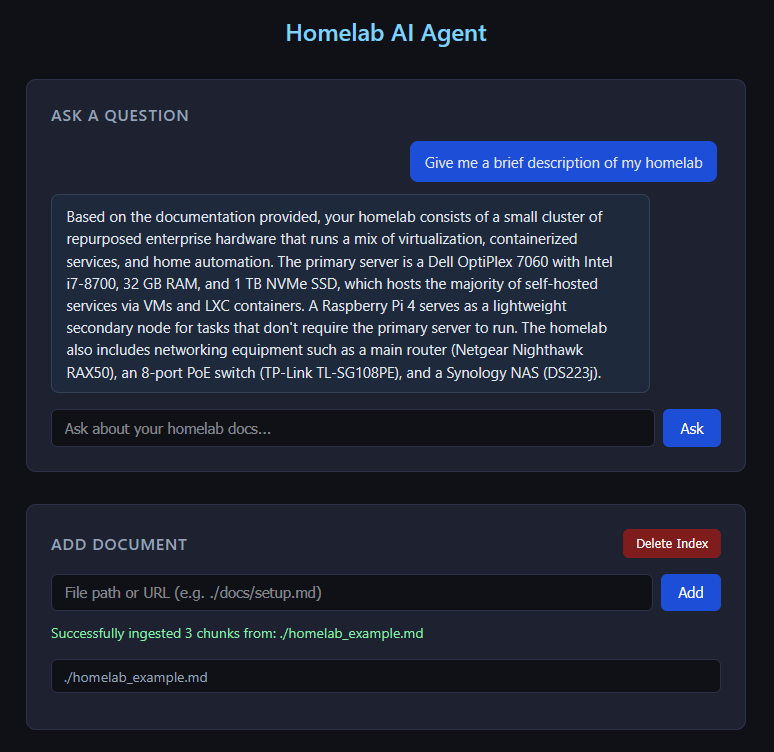
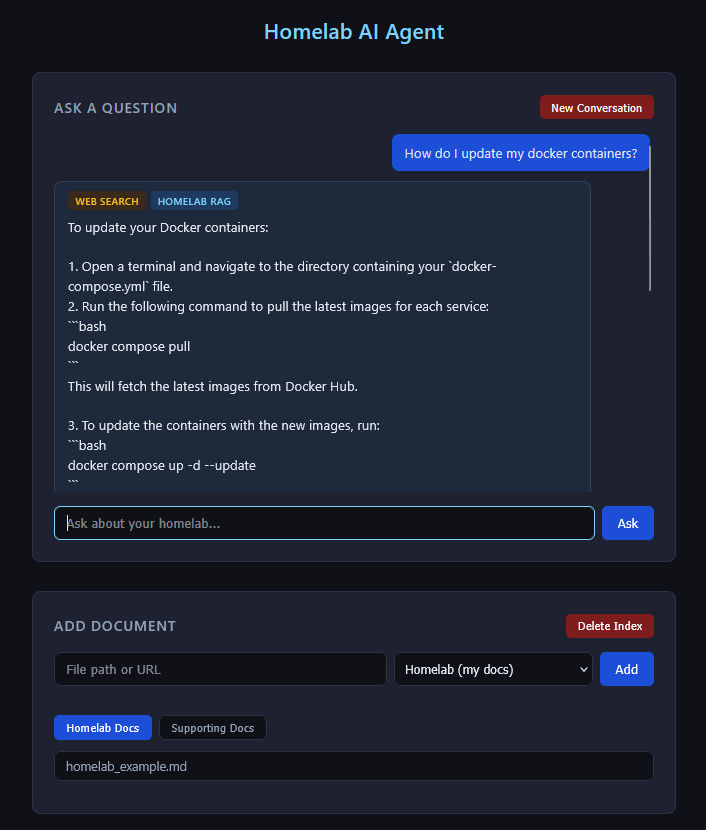
updated readme

diff --git a/web/templates/index.html b/web/templates/index.html
@@ -157,6 +157,42 @@
     .badge-web_search     { background: #3b2a1a; color: #fbbf24; }
     .badge-command        { background: #2a1a3b; color: #c4b5fd; }
 
+    /* Thinking indicator */
+    .message.thinking {
+      background: #1e293b;
+      border: 1px solid #334155;
+      align-self: flex-start;
+      display: inline-flex;
+      align-items: center;
+      gap: 0.5rem;
+      color: #64748b;
+      font-style: italic;
+      font-size: 0.875rem;
+      padding: 0.4rem 0.75rem;
+      line-height: 1;
+    }
+
+    .thinking-dots {
+      display: flex;
+      gap: 0.25rem;
+    }
+
+    .thinking-dots span {
+      width: 6px;
+      height: 6px;
+      background: #475569;
+      border-radius: 50%;
+      animation: bounce 1.2s infinite ease-in-out;
+    }
+
+    .thinking-dots span:nth-child(2) { animation-delay: 0.2s; }
+    .thinking-dots span:nth-child(3) { animation-delay: 0.4s; }
+
+    @keyframes bounce {
+      0%, 80%, 100% { transform: translateY(0); opacity: 0.4; }
+      40%           { transform: translateY(-5px); opacity: 1; }
+    }
+
     /* Command blocks */
     .command-block {
       background: #0a0c12;
@@ -381,6 +417,24 @@
       chatLog.scrollTop = chatLog.scrollHeight;
     }
 
+    function showThinking() {
+      const el = document.createElement("div");
+      el.className = "message thinking";
+      el.id = "thinking-indicator";
+      el.innerHTML = `
+        <div class="thinking-dots">
+          <span></span><span></span><span></span>
+        </div>
+        Thinking...`;
+      chatLog.appendChild(el);
+      chatLog.scrollTop = chatLog.scrollHeight;
+    }
+
+    function removeThinking() {
+      const el = document.getElementById("thinking-indicator");
+      if (el) el.remove();
+    }
+
     function appendMessage(text, type) {
       const el = document.createElement("div");
       el.className = `message ${type}`;
@@ -398,6 +452,7 @@
       appendMessage(question, "user");
       input.value = "";
       btn.disabled = true;
+      showThinking();
 
       try {
         const res = await fetch("/ask", {
@@ -406,12 +461,14 @@
           body: JSON.stringify({ question })
         });
         const data = await res.json();
+        removeThinking();
         if (data.error) {
           appendMessage(data.error, "error");
         } else {
           appendAgentMessage(data);
         }
       } catch (e) {
+        removeThinking();
         appendMessage("Failed to reach the server.", "error");
       } finally {
         btn.disabled = false;
@@ -482,7 +539,8 @@
           empty.textContent = "";
           data.sources.forEach(src => {
             const li = document.createElement("li");
-            li.textContent = src;
+            li.textContent = src.split(/[\\/]/).pop() || src;
+            li.title = src;
             list.appendChild(li);
           });
         }

diff --git a/README.md b/README.md
@@ -1,23 +1,33 @@
 # Homelab AI Agent
 
-A local AI powered assistant that answers questions about your homelab setup. Feed it your own markdown notes, config files, PDFs, or URLs — it answers based on what's actually in your docs, not guesswork.
+A personal project built for two reasons: to have a useful AI assistant for my own homelab setup, and to learn more about how LLMs work in practice — routing, retrieval, tool use, and conversation memory.
 
-Runs entirely on your machine using Ollama. No API costs, no internet required once set up.
+The agent can answer questions about my specific homelab by searching my own documentation, look up general product information from manuals and guides I've indexed, search the web via Tavily when needed, and suggest commands I can run directly.
+
+Runs entirely on your machine using [Ollama](https://ollama.com) for local LLM inference. No API costs, no data leaving your network.
 
 ![Website Screenshot](web/assets/website_screenshot.png)
-## What it does
 
-- Ingests local markdown, text, and PDF files, or scrapes content from a URL
-- Accepts a `.txt` file containing a list of sources (one per line) to batch ingest
-- Chunks and indexes content into a persistent local vector database (ChromaDB)
-- When you ask a question, retrieves the most relevant chunks
-- Passes those chunks to a local LLM (llama3.2 via Ollama) to generate a grounded answer
-- Serves a web UI for chatting with the agent and managing the index
+## How it works
+
+1. Documents are chunked and indexed into a persistent local vector database (ChromaDB)
+2. When a question is asked, a router LLM call decides which tools to use
+3. The selected tools retrieve relevant context (local docs, web search, or both)
+4. A second LLM call generates an answer grounded in that context
+5. Conversation history is maintained so follow-up questions work naturally
+
+## Two document collections
+
+- **Homelab** — personal documentation specific to my setup (hardware, services, configs, IPs)
+- **Supporting** — general reference material (product manuals, software guides, external docs)
+
+The agent keeps these separate so it knows what's my actual setup vs. general knowledge.
 
 ## Requirements
 
 - Python 3.10+
 - [Ollama](https://ollama.com) installed and running with `llama3.2` pulled
+- A [Tavily](https://tavily.com) API key for web search
 
 ## Installation
 
@@ -26,18 +36,22 @@ Clone the repo and install dependencies:
 ```bash
 git clone https://github.com/yourusername/homelab-ai-agent.git
 cd homelab-ai-agent
-pip install requests beautifulsoup4 chromadb ollama flask pdfplumber
+pip install requests beautifulsoup4 chromadb ollama flask pdfplumber python-dotenv tavily-python
 ```
 
-Pull the model if you haven't already:
+Pull the model:
 
 ```bash
 ollama pull llama3.2
 ```
 
-## Start Application
+Create a `.env` file in the project root:
 
-Start the Flask server:
+```
+TAVILY_API_KEY=your_key_here
+```
+
+## Start Application
 
 ```bash
 python app.py
@@ -45,13 +59,17 @@ python app.py
 
 Then open `http://localhost:5000` in your browser.
 
+## Usage
+
 ### Ask a Question
 
-Type any question into the chat input. The agent retrieves the most relevant chunks from your indexed documents and answers based on them.
+Type any question into the chat. The agent routes it to the appropriate tools, retrieves context, and answers based on what it finds. Tool badges on each response show which sources were used. If a command is suggested, it appears in a copyable block with the agent's reasoning.
+
+Use **New Conversation** to clear the chat history and start fresh.
 
 ### Add Document
 
-Enter a file path or URL to ingest a document into the index. Supported sources:
+Enter a file path or URL and select which collection to add it to. Supported sources:
 
 | Type | Example |
 |---|---|
@@ -61,24 +79,24 @@ Enter a file path or URL to ingest a document into the index. Supported sources:
 | PDF URL | `https://example.com/manual.pdf` |
 | Batch list (`.txt`) | `./sources.txt` |
 
-**Batch ingestion:** Create a `.txt` file with one source per line (file paths or URLs). Entering this file in the Add Document field will ingest each item individually. Failures are reported per-item without stopping the rest.
+**Batch ingestion:** Create a `.txt` file with one source per line. Entering it in the Add Document field ingests each item individually. Failures are reported per-item without stopping the rest.
 
 ```
 ./homelab.md
 https://tailscale.com/kb/
 ./proxmox-guide.pdf
-https://docs.docker.com/get-started/
 ```
 
-### Delete Index
+### Managing the Index
 
-Click **Delete Index** to wipe the ChromaDB database and sources list, allowing you to start fresh.
+- Use the **Homelab Docs / Supporting Docs** tabs to see what's indexed in each collection
+- **Delete Index** wipes everything and resets both collections
 
 ## Command Line
 
-Documents can also be ingested directly without the web UI:
+Documents can also be ingested directly:
 
 ```bash
-python embeddings.py ./homelab.md
-python embeddings.py https://docs.home-assistant.io/
+python Core/embeddings.py ./homelab.md homelab
+python Core/embeddings.py https://docs.home-assistant.io/ supporting
 ```
